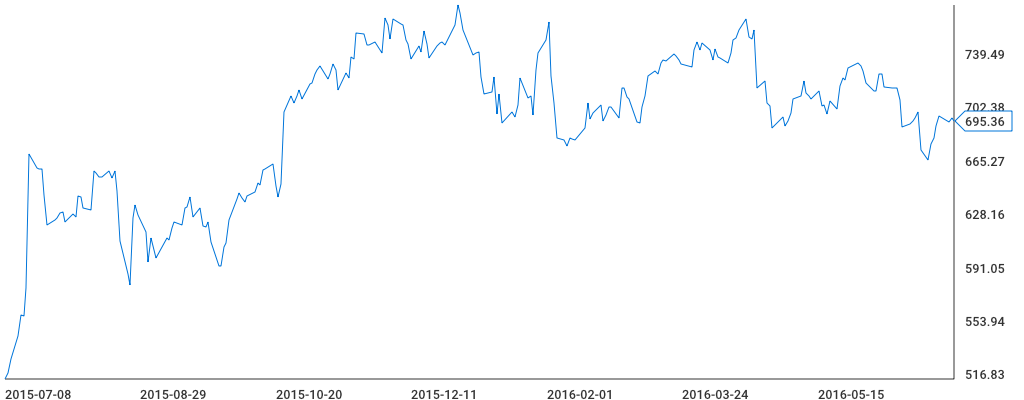
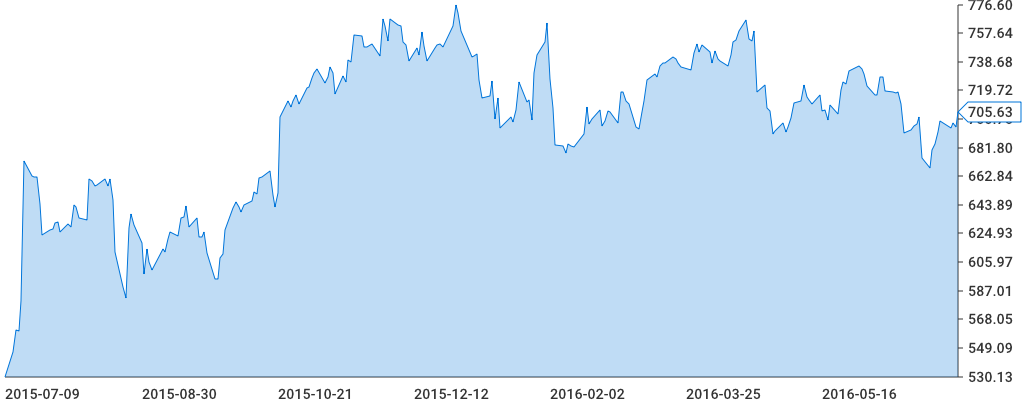
readme updates.

diff --git a/README.md b/README.md
@@ -27,25 +27,41 @@ The chart code to produce the above is as follows:
 graph := chart.Chart{
     Width:  1024,
     Height: 400,
-    Axes: chart.Style{
-        Show: true,
+    YAxis: chart.YAxis {
+        Style: chart.Style{
+            Show: true,
+        },
     },
-    FinalValueLabel: chart.Style{
-        Show: true,
+    XAxis: chart.XAxis {
+        Style: chart.Style{
+            Show: true,
+        },
     },
     Series: []chart.Series{
         chart.TimeSeries{
             XValues: xvalues,
             YValues: yvalues,
         },
+        chart.AnnotationSeries{
+            Name: "Last Value,
+            Style: chart.Style{
+                Show:        true,
+                StrokeColor: chart.DefaultSeriesStrokeColors[0],
+            },
+            Annotations: []chart.Annotation{
+                chart.Annotation{
+                    X:     float64(xvalues[len(xvalues)-1].Unix()), //todo: helpers for this.
+                    Y:     yvalues[len(yvalues)-1],
+                    Label: chart.FloatValueFormatter(yvalues[len(yvalues)-1]),
+                },
+            },
+        },
     },
 }
 graph.Render(chart.PNG, buffer) //thats it!
 ```
 
-The key areas to note are that we have to explicitly turn on two features, the axes and the last value label. When calling `.Render(..)` we add a parameter, `chart.PNG` that tells the renderer to use a raster renderer (in this case, an awesome library called `draw2d`). 
-
-Another option is to use `chart.SVG` which will use the vector renderer and create an svg representation of the chart. 
+The key areas to note are that we have to explicitly turn on two features, the axes and add the last value label annotation series. When calling `.Render(..)` we add a parameter, `chart.PNG` that tells the renderer to use a raster renderer. Another option is to use `chart.SVG` which will use the vector renderer and create an svg representation of the chart. 
 
 # Alternate Usage
 
